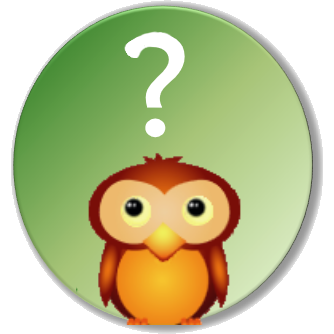
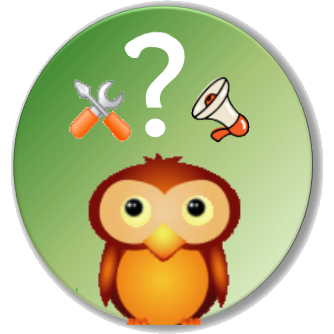
Acerca de con herramientas

Changed region(s): [[0.2096, 0.2395, 0.3892, 0.4491], [0.5689, 0.2096, 0.7485, 0.4491]]

diff --git a/index.html b/index.html
@@ -176,7 +176,7 @@ registerServiceWorker();
   </div>
   <div style="position: fixed;bottom: 20vh;right: 2vw;text-align:center;">
    
-  <a  id="L3"  class="itemM"><img src="./ResB/ElSoftware.png" style="width: 14vh;"/><br><span2 id="s3"  class="itemS" style="font-size: small;">ACERCA DE Pequén 9</span2></a>  <P>
+  <a  id="L3"  class="itemM"><img src="./ResB/ElSoftware.png" style="width: 14vh;"/><br><span2 id="s3"  class="itemS" style="font-size: small;">ACERCA DE Pequén 9<br> Configuración</span2></a>  <P>
  
   <!-- <a  id="L4" class="itemM"><img id="pinza" src="./ResB/pinza.png" style="width: 5vw;display: none"/><br><span2 id="s4"   class="itemS" style="font-size: small;width: auto;display: none;">INSTALAR Pequén 9</span2></a> -->
 
